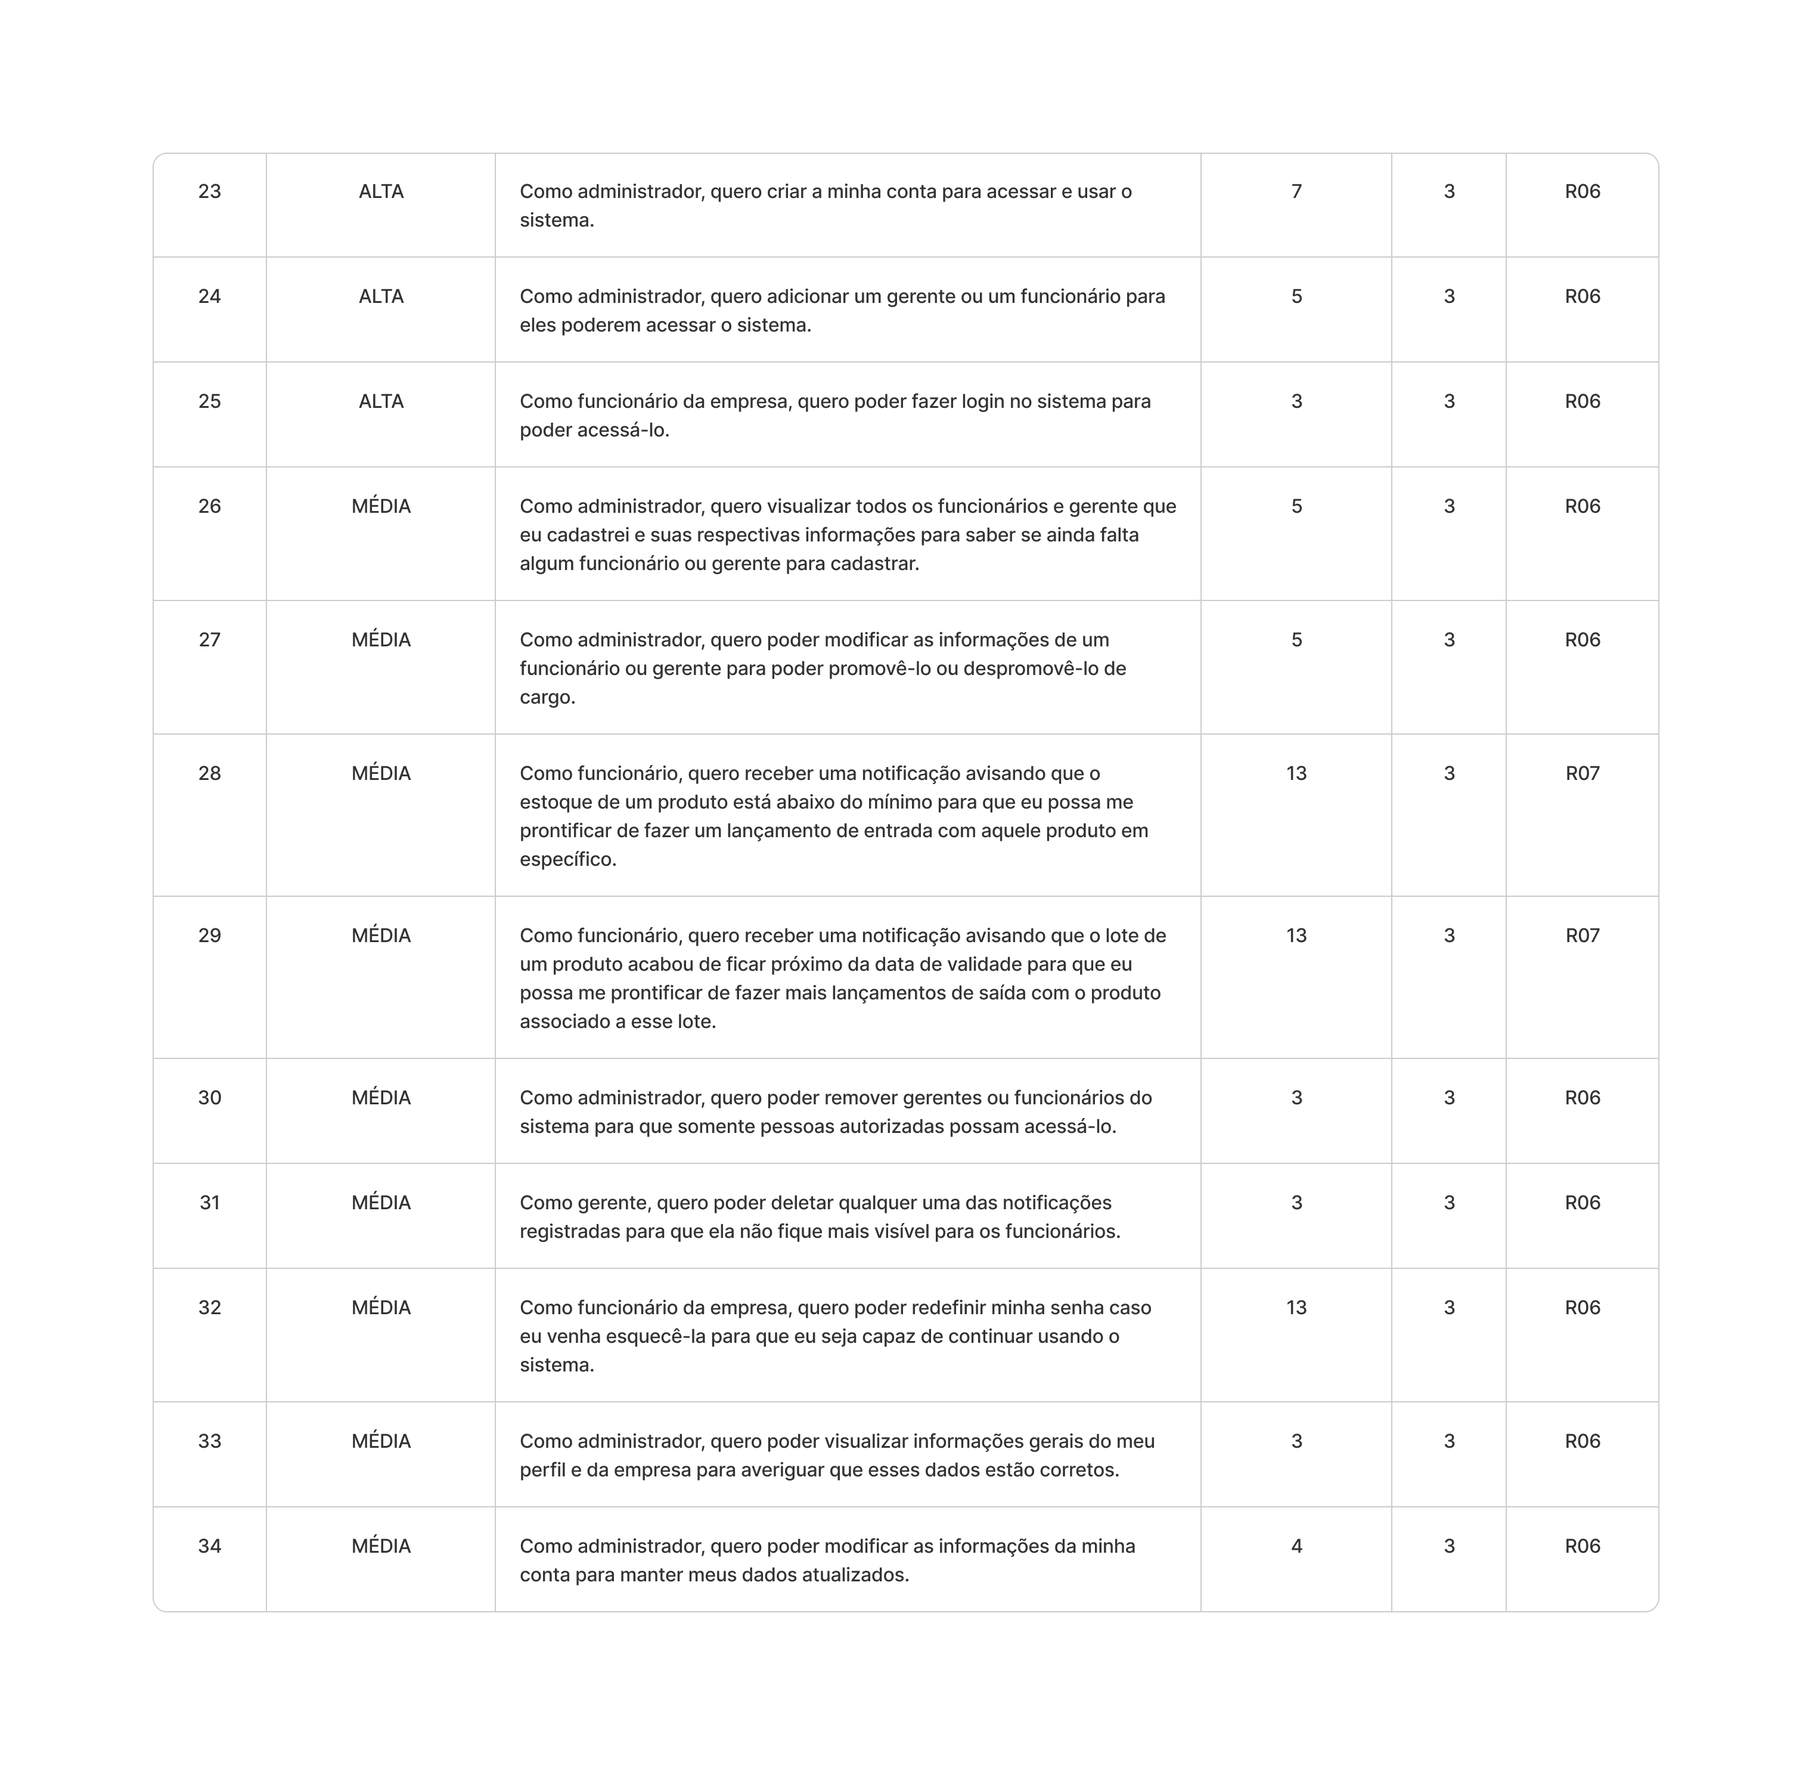
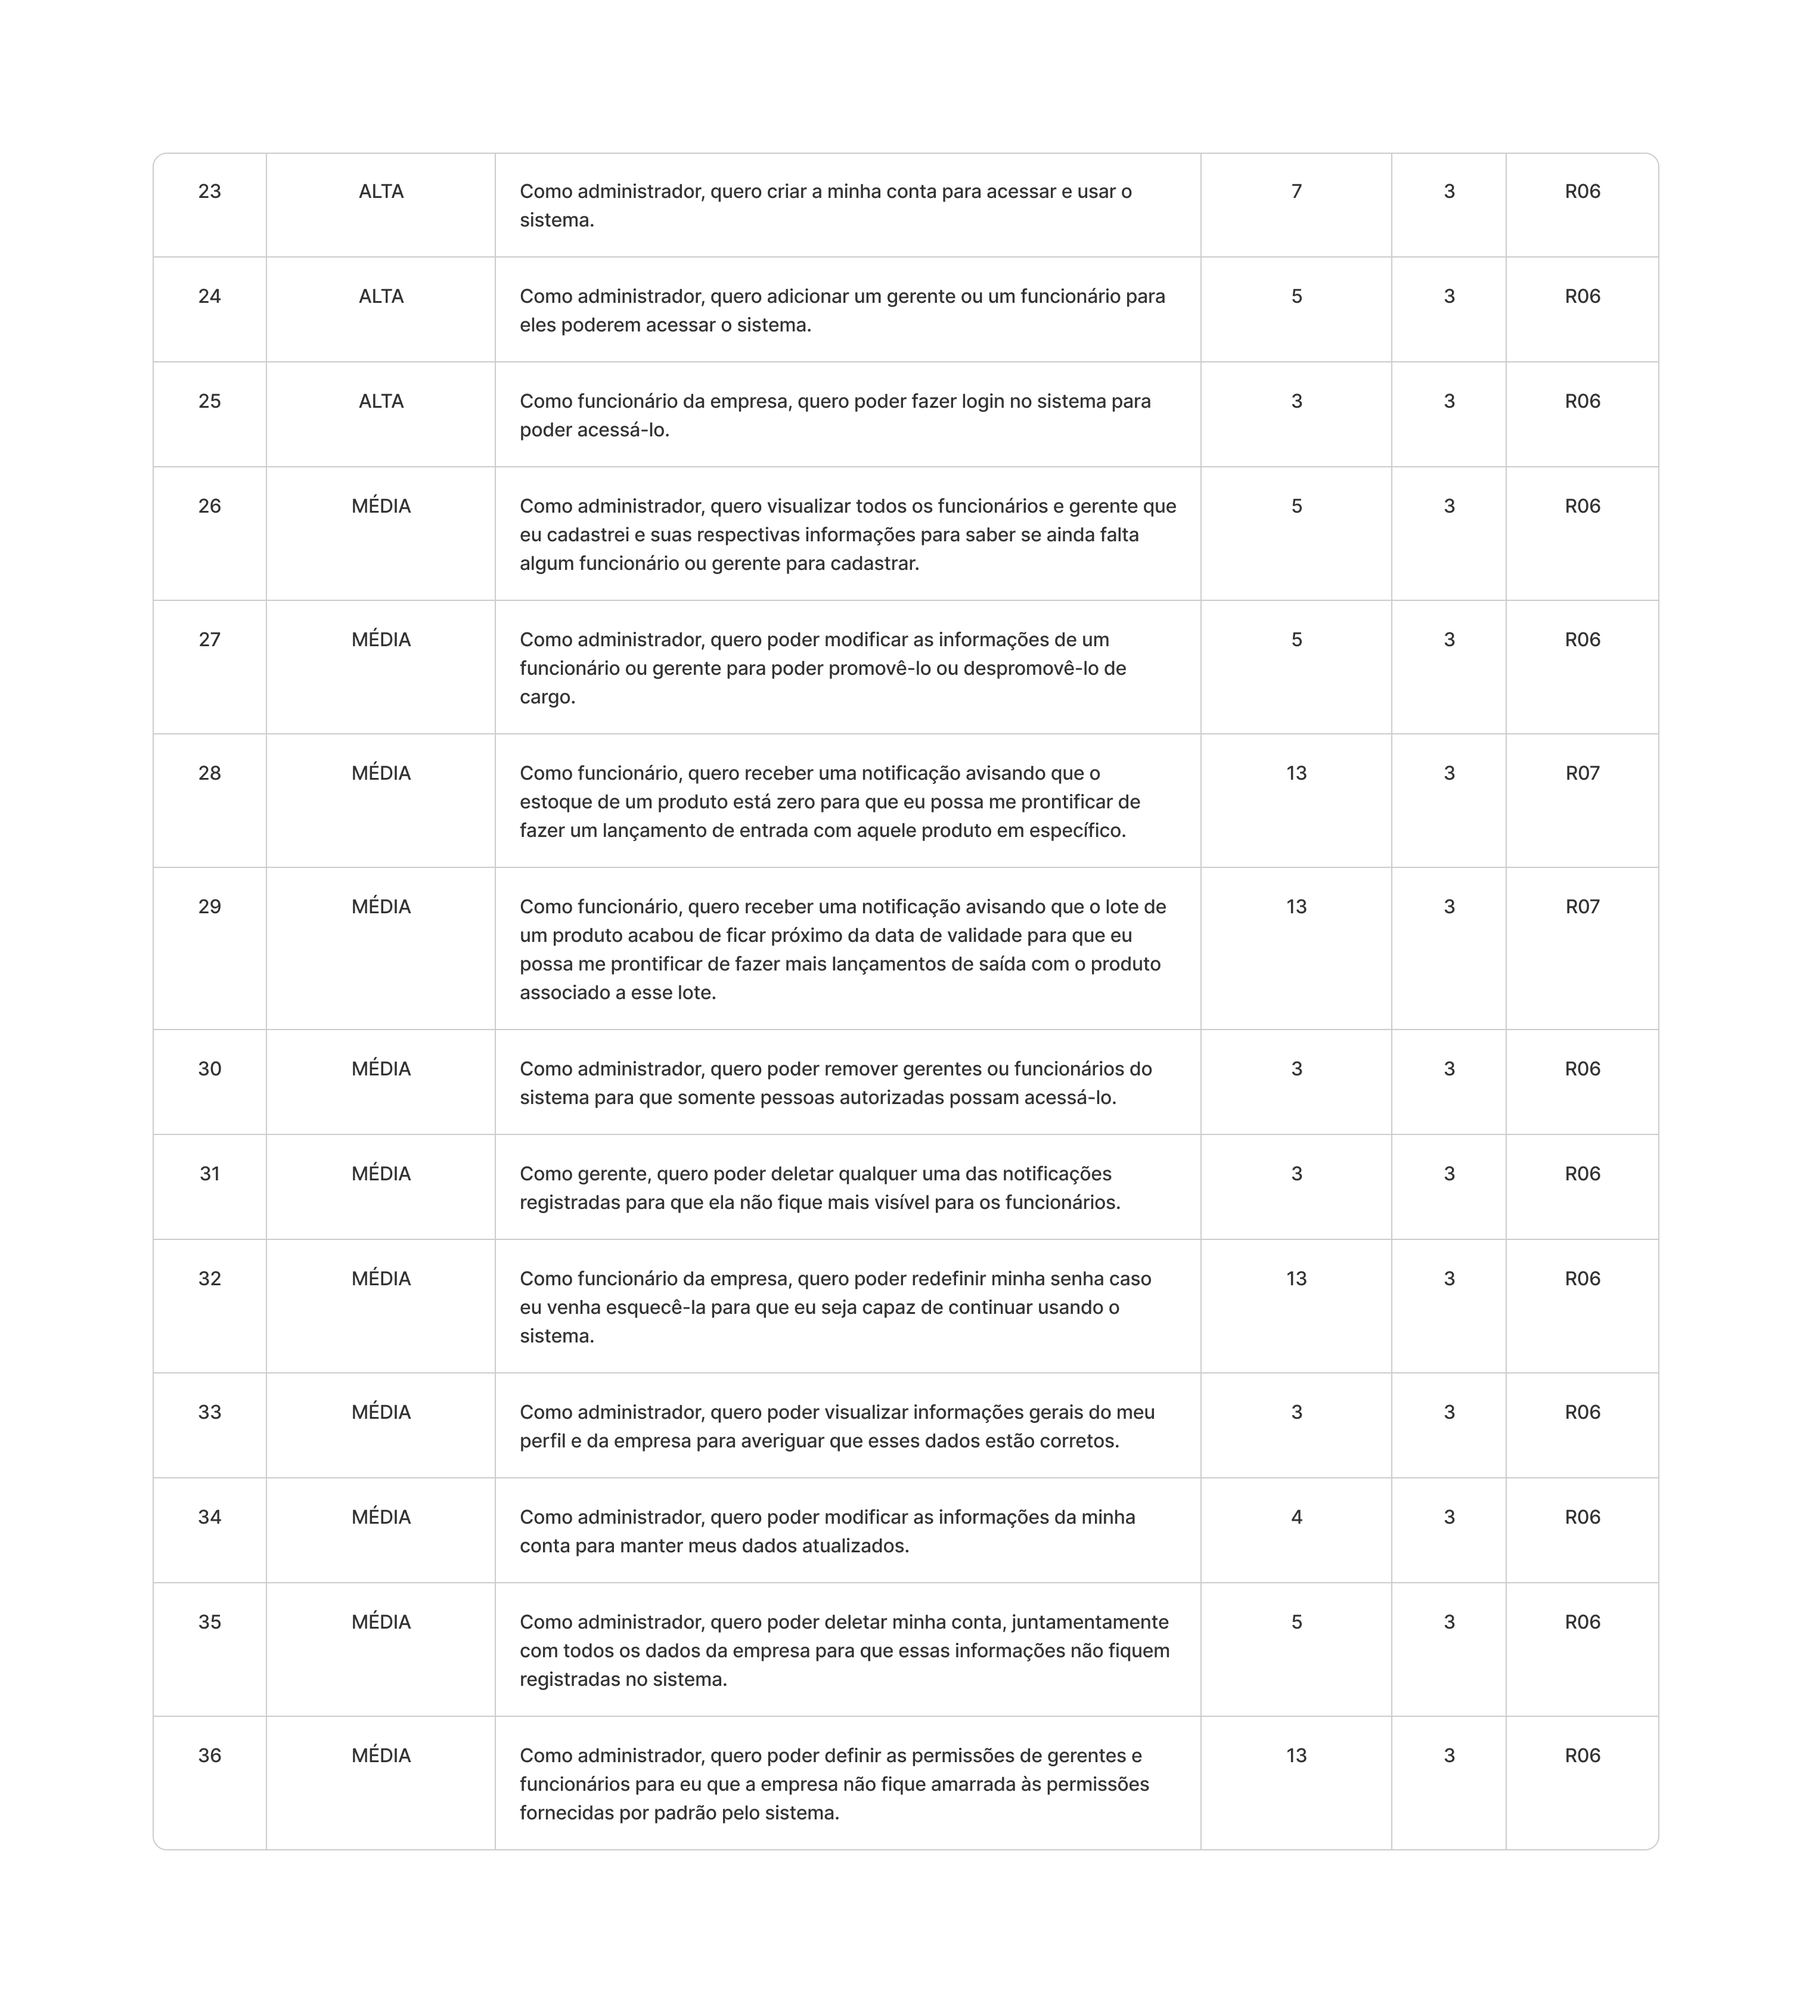
[documentation] 📚 docs: add sprint 4 report

diff --git a/documentation/sprints-reports/sprint-4.md b/documentation/sprints-reports/sprint-4.md
@@ -1,0 +1,94 @@
+# Sprint - 4⃣
+
+## Requisitos realizados nessa sprint ✨
+
+<img src="../images/requirements-sprint-4.png" width="2000" height="450" />
+
+## User Stories realizados nessa sprint 📖
+
+<img src="../images/users-stories-sprint-4.png"  width="2223" height="1240"  />
+
+## Critérios de aceitação para cada User Story 📒
+
+### US37
+
+- O cadastro de fornecedor deve ser feita via formulário contendo os campos:
+  - Nome;
+  - E-mail;
+  - CNPJ da empresa (opcional);
+  - Telefone de contato (opcional);
+- O sistema deve impedir que duas empresas tenham o mesmo fornecedor com o mesmo cnpj.
+- Deve ser exibido a mensagem de erro caso seja gerada ao efetuar o cadastro.
+
+### US38
+
+- Deve ser exbido todos os fornecedores em forma de tabela na qual cada coluna é referente um campo do fornecedor.
+- A tabela deve estar paginada.
+
+### US39
+
+- Deve ser possível editar qualquer campo do formulário de cadastro de fornecedor.
+- As mesma regras de cadastro devem ser utilizadas na operação de cadastro.
+- Deve ser exibido a mensagem de erro caso seja gerada ao efetuar a atualização.
+
+### US40
+
+- Deve ser possível remover mais de um forncedor por vez.
+
+### US41
+
+- O cadastro de locais de armazenamento deve ser via formulário com um campo de nome.
+- O processo de criar um setor (divisão de um local) deve seguir o mesmo fluxo do seu local pai.
+- O sistema deve validar se é um gerente realizando essa ação.
+- Não deve ser possível haver setores de setores.
+
+### US42
+
+- Deve ser exibido uma lista contendo os nomes de cada local de armazenamento.
+- Deve ser possível escolher visualizar ou não os setores de um local de armazenamento.
+
+### US43
+
+- Deve ser possível remover qualquer setor de um local de armazenamento.
+- Ao remover um local de armazenamento, devem ser excluídoss automaticamente os seus setores.
+
+### US44
+
+- Deve ser possível atualizar via formulário contendo o nome do local de armazenamento.
+- O processo de atualizar o nome de um setor deve seguir o mesmo fluxo do seu local de armazenamento pai.
+
+### US45
+
+- Os filtros podem ser aplicados ao mesmo tempo.
+
+### US46
+
+- O status de estoque deve ser um dos seguintes tipos: `ideal`, `abaixo` ou `esgotado`.
+
+### US47
+
+- O tipo de lançamento diz respeito em `entrada` e `saída`.
+
+### US48
+
+- Ao fornecer o nome da subcategoria, a categoria pai também de ser mostrada.
+
+### US49
+
+- Ao fornecer o nome do setor de armazenamento, o local de armazenamento também de ser mostrado.
+
+### US50
+
+- Sem critérios para essa história de usuário haha.
+
+### Tasks realizados nessa sprint
+
+Clique [aqui](https://github.com/orgs/CtrI-Alt-Del/projects/4/views/1?filterQuery=iteration%3A%22Sprint+4%22) para acessar as tasks organizadas em uma tabela Kanban.
+
+## Gráfico Burndown 📈
+
+<img src="../images/burndown-chart-sprint-4.png" width="1000" height="500" alt="Grágico Burndown da primeira Sprint" />
+
+## Slides para apresentação 🎞
+
+**<a href="https://www.canva.com/design/DAGR_EjMO4w/i_fj7NzYP-dHIYhJSwVwjQ/view?utm_content=DAGR_EjMO4w&utm_campaign=designshare&utm_medium=link&utm_source=editor" _target="blank" >Clique para acessar a apresentação no Canva</a>**
